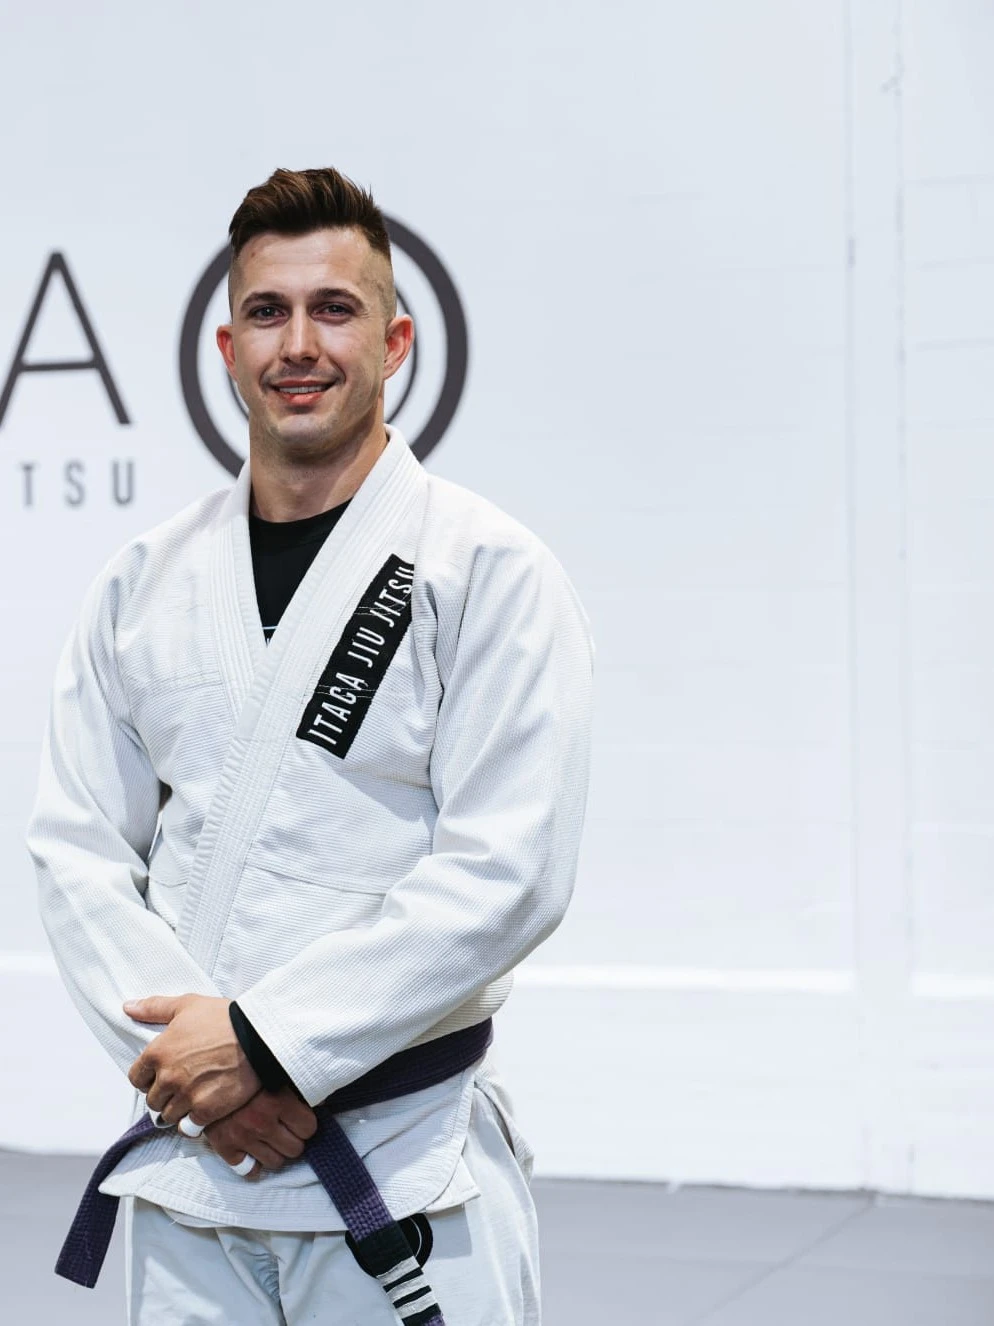
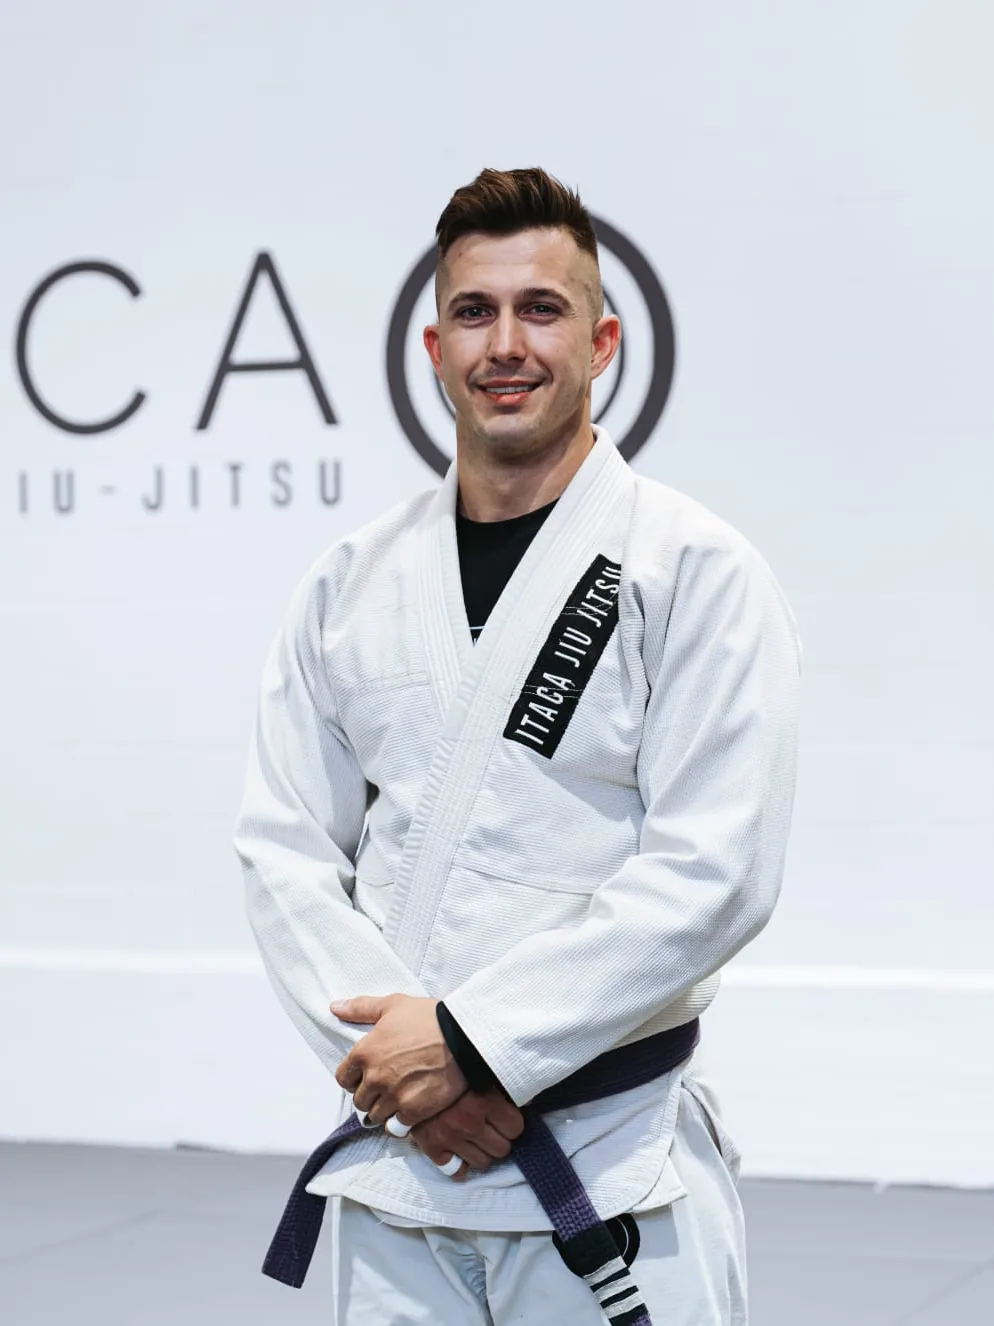
Instructores dentro del contenedor y fotos de Boris y Marta recentradas
Un comentario CSS sin cerrar delante de "@media (max-width: 768px)" se
tragaba la linea de la media query, asi que las reglas del carrusel
deslizable de instructores se aplicaban en todos los anchos: en escritorio
las tres fichas se quedaban en 320px amontonadas a la izquierda con un
hueco enorme a la derecha. Se cierra el comentario (el texto sobraba: la
regla del menu que explicaba se movio a la media query de 1600px).

La seccion de instructores tambien se salia del contenedor de 1400px
(max-width: 100% y padding lateral 0) y llegaba de borde a borde. Ahora usa
la misma columna centrada que el resto de secciones. Las unicas que siguen
a pantalla completa a proposito son la portada, el carrusel de fotos (las
flechas necesitan el ancho) y el mapa.

En movil la fila deslizable sigue llegando al borde: se anula el margen
lateral de la seccion con el mismo patron de margin-inline negativo que ya
usaban las pestanas del horario.

Boris y Marta se recortaron de un original horizontal tomando como centro
un punto a su derecha, asi que quedaban desplazados hacia la izquierda de
la ficha. Se recortan de nuevo centrando el recuadro sobre cada persona.

Claude-Session: https://claude.ai/code/session_018R8uvh9wG8359xCqK7oZDB

diff --git a/index.html b/index.html
@@ -1273,9 +1273,10 @@
         }
 
         /* Instructors */
+        /* Antes esta sección se salía del contenedor de 1400px (max-width:100%)
+           y llegaba de borde a borde. En una pantalla ancha rompía la columna
+           que siguen todas las demás secciones, así que ahora usa la misma. */
         #instructors .container {
-            max-width: 100%;
-            padding: 0;
             margin-top: 3rem;
         }
 
@@ -2296,7 +2297,8 @@
             }
         }
 
-        /* Por debajo de 1180 px el menú de enlaces ya no cabe entre el logo y el
+        /* El menú de enlaces pasa a hamburguesa mucho antes, en 1600px (ver la
+           regla de arriba): aquí ya no se toca. */
         @media (max-width: 768px) {
 
             .hero-buttons {
@@ -2317,6 +2319,9 @@
                 -webkit-overflow-scrolling: touch;
                 scrollbar-width: none;
                 margin-top: var(--space-md);
+                /* La sección ya lleva su margen lateral; aquí se anula para que
+                   la fila deslizable llegue al borde y se vea que hay más. */
+                margin-inline: calc(var(--gutter) * -1);
                 padding-inline: var(--gutter);
                 padding-bottom: var(--space-2xs);
             }
@@ -3131,7 +3136,7 @@
     </section>
 
     <!-- Instructors -->
-    <section class="section section-dark" id="instructors" style="padding-bottom: 0; padding-left: 0; padding-right: 0;">
+    <section class="section section-dark" id="instructors" style="padding-bottom: 0;">
         <div class="text-center reveal">
             <span class="eyebrow">Quién enseña</span>
             <h2>Instructores</h2>

diff --git a/CLAUDE.md b/CLAUDE.md
@@ -249,7 +249,7 @@ No hay base de datos. Lo que hace las veces de "modelo de datos" son los archivo
 | Textos legales | `legal/privacidad.html`, `legal/terminos.html` | Páginas aparte, no modales — así el texto existe una sola vez para las dos webs. Enlazadas desde la casilla de consentimiento de ambos formularios. |
 | Panel de solicitudes | `panel/index.html` | Uso interno de Cipri, no la web pública: tarjetas con quién ha escrito, botón de WhatsApp, notas privadas por solicitud, aviso de las que llevan más de 3 días sin gestionar, y pestañas Pendientes/Gestionadas/Estadísticas/Todas. `noindex` + `Disallow` en `robots.txt`, protegido por una clave (`CLAVE_PANEL`) que solo vive en el script de Google, nunca en el repositorio. Lee y escribe contra el mismo Apps Script que guarda los leads — ver `docs/hoja-de-calculo.md`. Instalable como app (`panel/manifest.json` + `panel/icon-192.png` / `icon-512.png`), sin service worker a propósito. |
 | Fotos del gimnasio | `images/Itaca/Gym1.webp` … `Gym12.webp` (12) | Las lee el array `photos` del JS de `index.html` y el array `FOTOS` de `movil.html`. Si añades una foto, hay que añadirla en los dos sitios. En escritorio solo las 8 primeras salen en el carrusel (`CAROUSEL_MAX`); todas salen en "Ver todas las fotos". `Gym8-12.webp` son nuevas (6 de septiembre de 2026, fotos de Drive/chat recortadas a 1200×800; `Gym9`, `Gym10` y `Gym11` llevan cara de una menor con permiso firmado de la familia, confirmado por Cipri, que es el padre). |
-| Fotos de instructores | `images/Profesores/Cipri.webp`, `Boris.webp`, `Marta_Pozo.webp` (WebP, no PNG) | Puestas a mano en el HTML de las dos webs. Renovadas el 6 de septiembre de 2026 con fotos de estudio (fondo blanco, logo Itaca en la pared) que mandó Cipri por chat; recortadas de horizontal a 3:4 centrando a cada persona — el archivo de Marta ya no es el horizontal de baja resolución que arrastraba desde el principio. |
+| Fotos de instructores | `images/Profesores/Cipri.webp`, `Boris.webp`, `Marta_Pozo.webp` (WebP, no PNG) | Puestas a mano en el HTML de las dos webs. Renovadas el 6 de septiembre de 2026 con fotos de estudio (fondo blanco, logo Itaca en la pared) que mandó Cipri por chat; recortadas de horizontal a 3:4 centrando a cada persona — el archivo de Marta ya no es el horizontal de baja resolución que arrastraba desde el principio. Recentradas el 7 de septiembre: el primer recorte de Boris y Marta salió descuadrado (se cortaba tomando como centro un punto a su derecha y quedaban desplazados hacia la izquierda de la ficha). Al recortar de un original horizontal, el centro del recorte tiene que caer sobre el cuerpo de la persona, no sobre el centro de la foto. |
 | Portada de escritorio | vídeo `videos/Itaca_Hero_Desktop.mp4`, con `images/Itaca/Portada-escritorio.jpg` como respaldo/poster | Vuelve a ser vídeo (6 de septiembre de 2026): el anterior (`Itaca_Hero_Video.mp4`) era una animación de logo casi en negro y se borró; este es metraje real del gimnasio, 1920×800, sacado de Drive. Arranca silenciado (ningún navegador deja sonar un vídeo solo) y tiene un botón de sonido propio (`.video-control`, visible solo en escritorio) para activarlo a propósito. |
 | Portada de móvil | vídeo `videos/Itaca_Hero_Mobile.mp4`, con `poster="images/Itaca/Portada-movil.jpg"` | Grabado en vertical (9:16), solo se crea/carga por debajo de 760px. Vídeo nuevo (6 de septiembre de 2026, distinto del de escritorio): el anterior no tenía pista de audio, así que no tenía sentido ponerle botón de sonido; este sí lleva audio real, con el mismo patrón de botón mudo/sonido (`.hero-sound`, propio de `movil.html`) que ya usa la portada de escritorio. Se le recortaron los 0,4 s de negro del principio y del final: si no, parpadeaba en negro en cada vuelta del bucle. |
 | Vídeos verticales (reels) | `videos/Boris_instagram.mp4`, `Cipri_instagram.mp4`, `Marta_instagram.mp4`, `Itaca_gi_instagram.mp4` | `preload="none"`: no se descargan hasta que hace falta. En escritorio se reproducen al pasar el ratón. En `movil.html` los monta el JS al abrir el panel "Vídeos" (antes eran pósters fijos sin vídeo). Se reproduce **la fila que se está mirando: los dos a la vez**, en silencio, y tocar una ficha la pone en marcha aunque no sea la que más se ve. Dos y no los cuatro porque entre todos pesan 18 MB. El sonido es de uno solo (el botón sale en el principal) y al cerrar el panel se paran todos. ⚠ La rejilla es de **dos columnas**: una regla del tipo "reproduce el que más se ve" hace que los dos de una fila empaten y gane siempre el primero del código, o sea el de la izquierda, y los de la derecha no se reproducen nunca. Pasó de verdad. |
@@ -310,6 +310,10 @@ Los dos tienen **casilla de consentimiento obligatoria** con enlace a la políti
 **Cómo se comporta la cabecera:** transparente sobre la portada; al bajar de 50 píxeles se vuelve blanca, encoge, el logo se va a la izquierda y aparece el menú.
 
 ⚠ **El menú de enlaces va centrado en posición absoluta sobre TODO el ancho de la cabecera, sin tener en cuenta el hueco fijo que ocupa el botón "Hazte Miembro" a la derecha.** Si no hay sitio, el último enlace ("NIÑOS") se mete debajo del botón — pasó de verdad en esta auditoría, en una franja de anchos donde a simple vista parecía haber espacio de sobra (medido con Playwright, no a ojo). Por eso el menú de las tres rayas se mantiene hasta **1600 px** y solo a partir de ahí aparecen los enlaces — con margen de sobra comprobado, no en el punto exacto donde deja de solaparse. **Si añades un enlace, cambias el texto de alguno o cambias la tipografía de la cabecera, vuelve a medir con Playwright en todo el rango 1180-2000 px** (bounding box del último enlace contra el botón), no solo mirando dos o tres capturas — así es como se coló este fallo la primera vez. La maquetación del resto (instructores, vídeos) sigue cambiando en 1024 px y 768 px, que es independiente.
+
+⚠ **Todas las secciones van dentro de `.container` (1400 px como máximo, centrado) con el margen lateral de `.section`.** Las tres únicas que llegan de borde a borde a propósito son la portada (`#home`), el carrusel de fotos (`#academy`, que necesita el ancho completo para las flechas laterales) y el mapa (`#location`). `#instructors` **no** es una de ellas desde el 7 de septiembre de 2026: iba a pantalla completa por un `max-width: 100%` y llegaba pegado a los bordes.
+
+⚠ **Un comentario CSS sin cerrar se comió una `@media` entera durante meses.** En `index.html` había un `/*` abierto justo antes de `@media (max-width: 768px) {`: el comentario se tragaba la línea de la media query, así que las reglas del carrusel deslizable de instructores (`display: flex`, fichas de 320 px) se aplicaban **en todos los anchos**, y en un monitor grande los tres instructores salían amontonados a la izquierda. Se ve a simple vista en el navegador pero no leyendo el CSS. **Para comprobarlo, recorre `document.styleSheets` y mira el `conditionText` de cada regla**: si una regla que debería ser de móvil sale sin media query, hay un comentario roto por encima.
 
 **Los dos caminos que importan:**
 1. "HAZTE MIEMBRO" (portada, cabecera, menú móvil y llamada final) → abre el modal de **contacto**.
